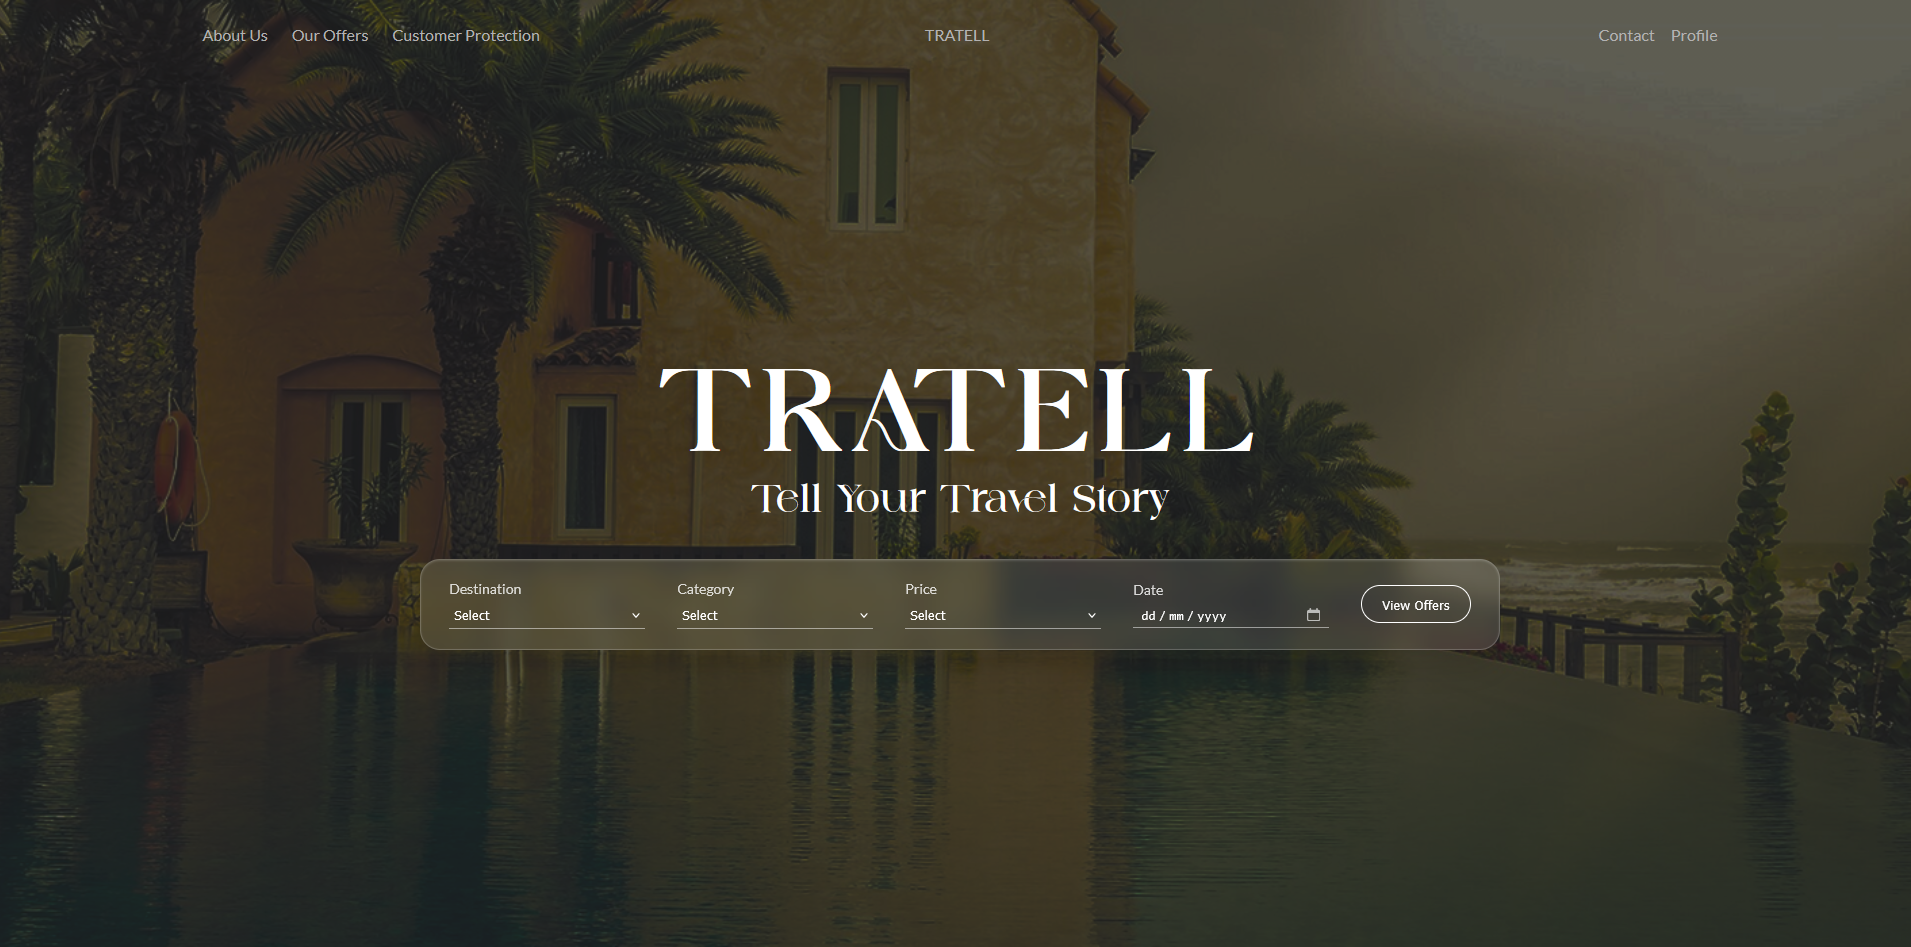
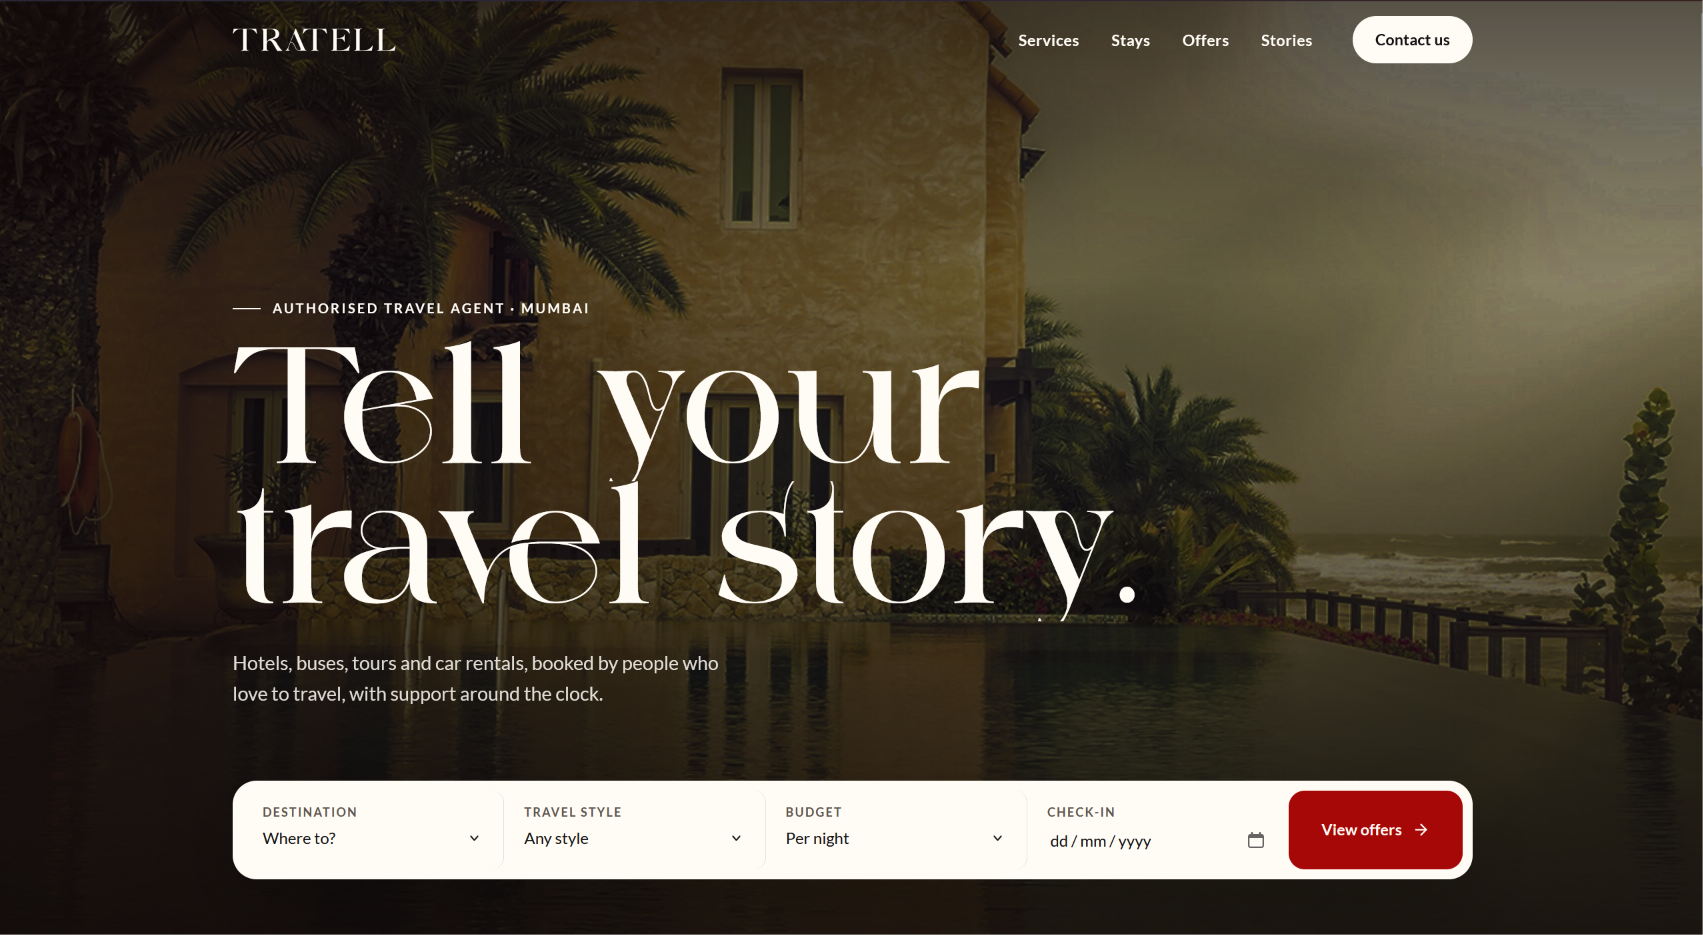
Updated Order of the Websites

diff --git a/src/constants/index.js b/src/constants/index.js
@@ -191,10 +191,28 @@ import {
   ];
   
   const projects = [
-    {
-      name:"Appron",
+      {
+      name:"Deepti Acharya",
       description:
-        "Built a landing page for Appron, an app for booking verified home cooks who prepare fresh regional meals in your own kitchen. It covers how the service works, cuisines, FAQs and app download links.",
+        "Built a web platform for Deepti Acharya offering trauma-informed counselling, with clear service breakdown and a calming, easy-to-use booking experience.",
+      tags: [
+        {
+          name: "React",
+          color: "blue-text-gradient",
+        },
+        {
+          name: "Tailwind CSS",
+          color: "pink-text-gradient",
+        },
+      ],
+      image:Deepti,
+      source_code_link:"https://therapywithdeepti.com",
+    }, 
+      
+    {
+      name:"Studio Nivvani",
+      description:
+        "Designed and developed a modern, responsive website for an architect/interior design client to showcase projects, services, and brand identity. Focused on clean UI, smooth navigation",
       tags: [
         {
           name: "React",
@@ -205,8 +223,8 @@ import {
           color: "green-text-gradient",
         },
       ],
-      image:Appron,
-      source_code_link:"#",
+      image:StudioNivvani,
+      source_code_link:"https://studio-nivvani.netlify.app",
     },
     {
       name:"Gulabo Design",
@@ -225,23 +243,7 @@ import {
       image:Gulabo,
       source_code_link:"https://gulabo-design.vercel.app",
     },
-      {
-      name:"Deepti Acharya",
-      description:
-        "Built a web platform for Deepti Acharya offering trauma-informed counselling, with clear service breakdown and a calming, easy-to-use booking experience.",
-      tags: [
-        {
-          name: "React",
-          color: "blue-text-gradient",
-        },
-        {
-          name: "Tailwind CSS",
-          color: "pink-text-gradient",
-        },
-      ],
-      image:Deepti,
-      source_code_link:"https://therapywithdeepti.com",
-    },
+    
     /*
     {
       name:"Acharya Souhardha",
@@ -295,11 +297,10 @@ import {
       image:Eyedetect,
       source_code_link:"https://eye-detect-five.vercel.app",
     },
-    /*
     {
       name:"Tratell",
       description:
-        "Currently building a full-stack hotel booking platform that allows users to browse, filter, and reserve accommodations with real-time availability. Focusing on a clean, intuitive interface and a smooth end-to-end booking experience.",
+        "Built Tratell, a full-stack hotel booking platform where users can browse, filter and reserve stays with real-time availability, using a React frontend and a Spring Boot backend for a clean, smooth end-to-end booking experience.",
       tags: [
         {
           name: "React",
@@ -317,12 +318,11 @@ import {
       image:Tratell,
       source_code_link:"https://tratell.netlify.app",
     },
-    */
-     
-    {
-      name:"Studio Nivvani",
+   
+     {
+      name:"Appron",
       description:
-        "Designed and developed a modern, responsive website for an architect/interior design client to showcase projects, services, and brand identity. Focused on clean UI, smooth navigation",
+        "Built a landing page for Appron, an app for booking verified home cooks who prepare fresh regional meals in your own kitchen. It covers how the service works, cuisines, FAQs and app download links.",
       tags: [
         {
           name: "React",
@@ -333,8 +333,8 @@ import {
           color: "green-text-gradient",
         },
       ],
-      image:StudioNivvani,
-      source_code_link:"https://studio-nivvani.netlify.app",
+      image:Appron,
+      source_code_link:"#",
     },
   ];
   
